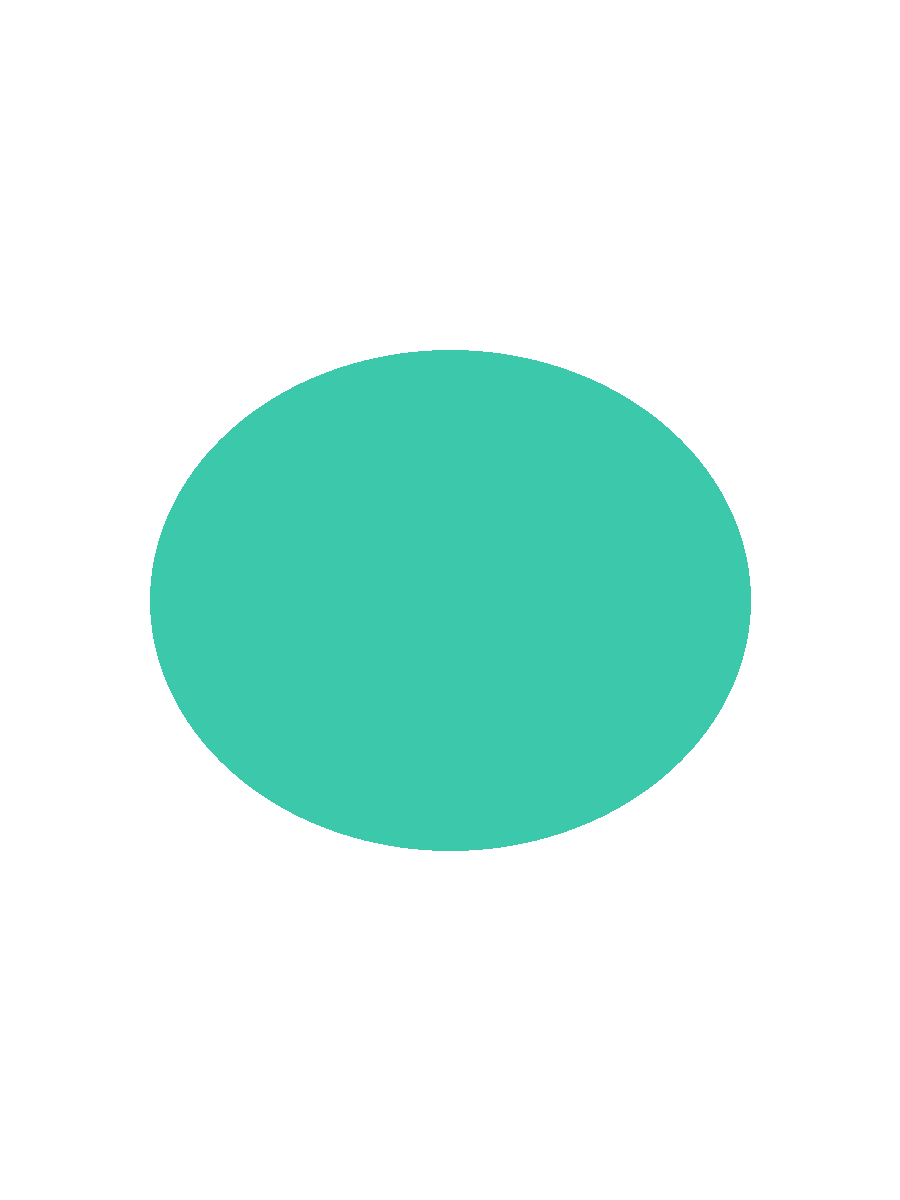
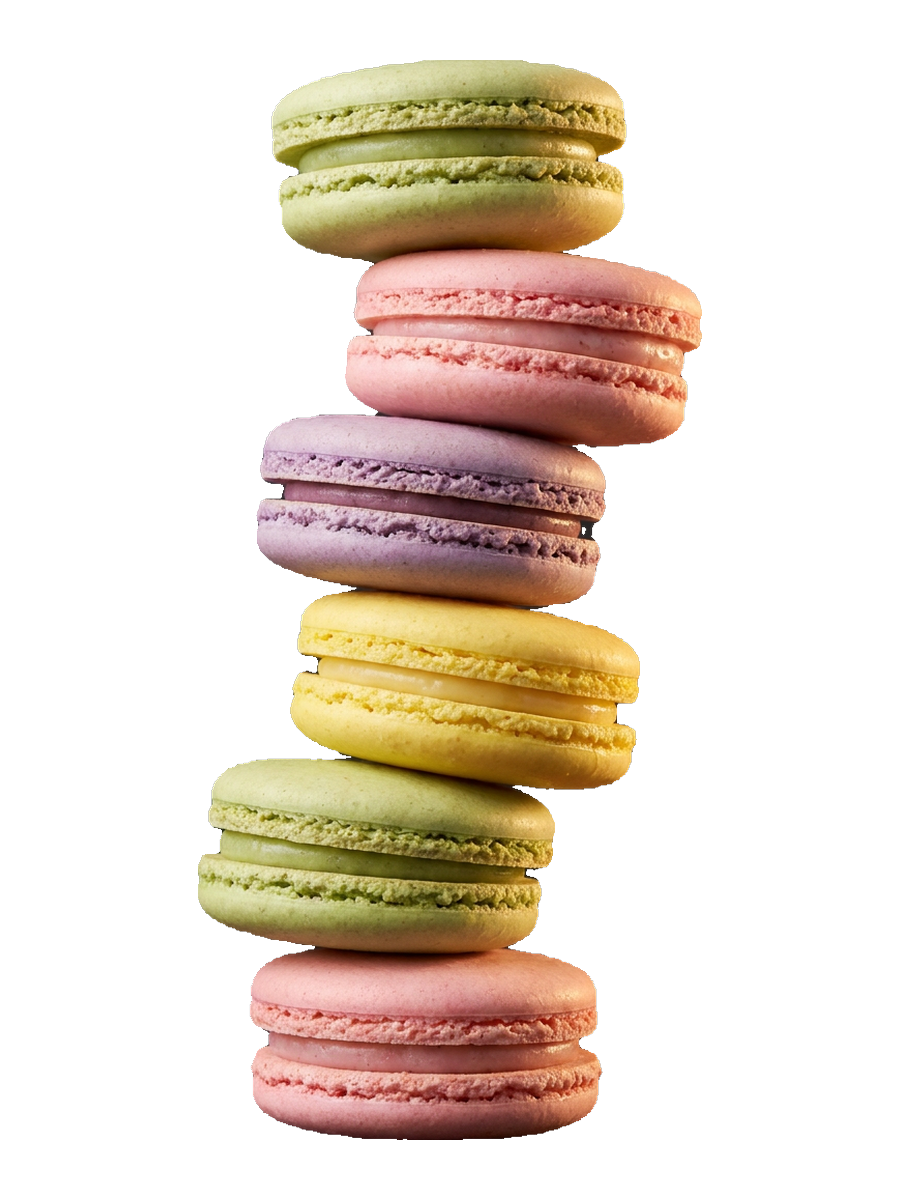
feat(demo): add real cake and macarons cutouts, fix card text legibility
Claude-Session: https://claude.ai/code/session_01AAY99HS6e4nkP2z62rqShK

diff --git a/index.html b/index.html
@@ -99,9 +99,10 @@ h2.title{font-family:var(--font-d);font-size:clamp(2rem,6vw,3.4rem);line-height:
 @keyframes mq{to{transform:translateX(-50%)}}
 
 .grid{display:grid;gap:18px;grid-template-columns:1fr}
-.card{position:relative;border-radius:26px;overflow:hidden;padding:22px;min-height:340px;display:flex;flex-direction:column;justify-content:flex-end;background:var(--c);isolation:isolate;transform-style:preserve-3d;transition:transform .5s var(--ease),box-shadow .5s;box-shadow:0 20px 50px -25px rgba(0,0,0,.8)}
+.card{position:relative;border-radius:26px;overflow:hidden;padding:22px;min-height:420px;display:flex;flex-direction:column;justify-content:flex-end;background:var(--c);isolation:isolate;transform-style:preserve-3d;transition:transform .5s var(--ease),box-shadow .5s;box-shadow:0 20px 50px -25px rgba(0,0,0,.8)}
 .card::before{content:"";position:absolute;inset:0;background:radial-gradient(70% 60% at 50% 35%,rgba(255,255,255,.18),transparent 70%);z-index:-1}
-.card img{position:absolute;left:50%;top:6%;width:62%;transform:translateX(-50%);filter:drop-shadow(0 24px 28px rgba(0,0,0,.5));transition:transform .7s var(--ease);z-index:-1}
+.card::after{content:"";position:absolute;inset:auto 0 0 0;height:48%;background:linear-gradient(to top,rgba(0,0,0,.62),transparent);z-index:-1}
+.card img{position:absolute;left:50%;top:3%;width:56%;transform:translateX(-50%);filter:drop-shadow(0 24px 28px rgba(0,0,0,.5));transition:transform .7s var(--ease);z-index:-1}
 .card:hover img{transform:translateX(-50%) scale(1.1) rotate(-4deg)}
 .card h3{font-family:var(--font-d);font-size:1.6rem;margin:0}
 .card p{margin:4px 0 12px;opacity:.85;font-size:.92rem}
